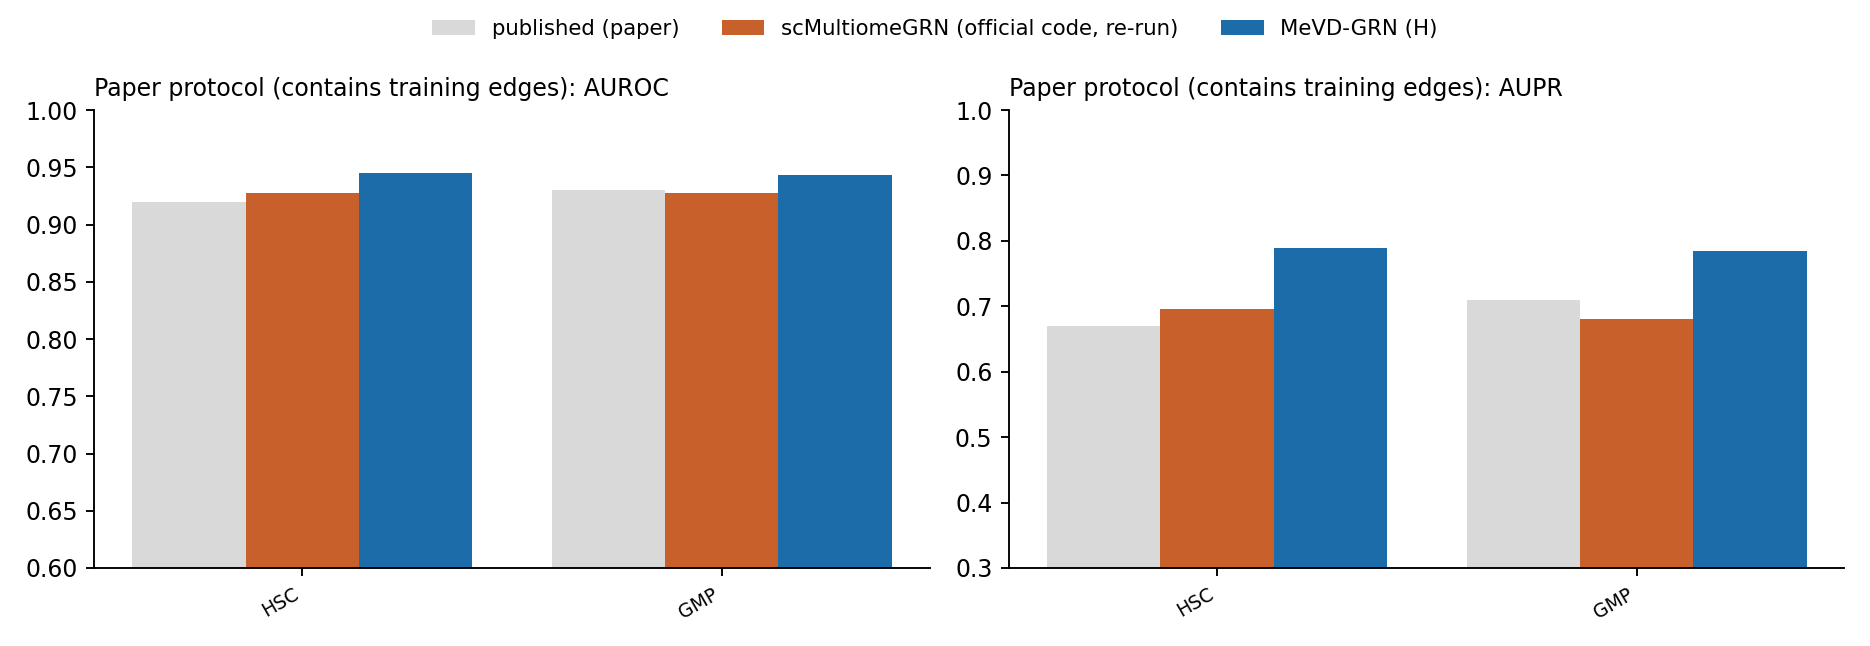
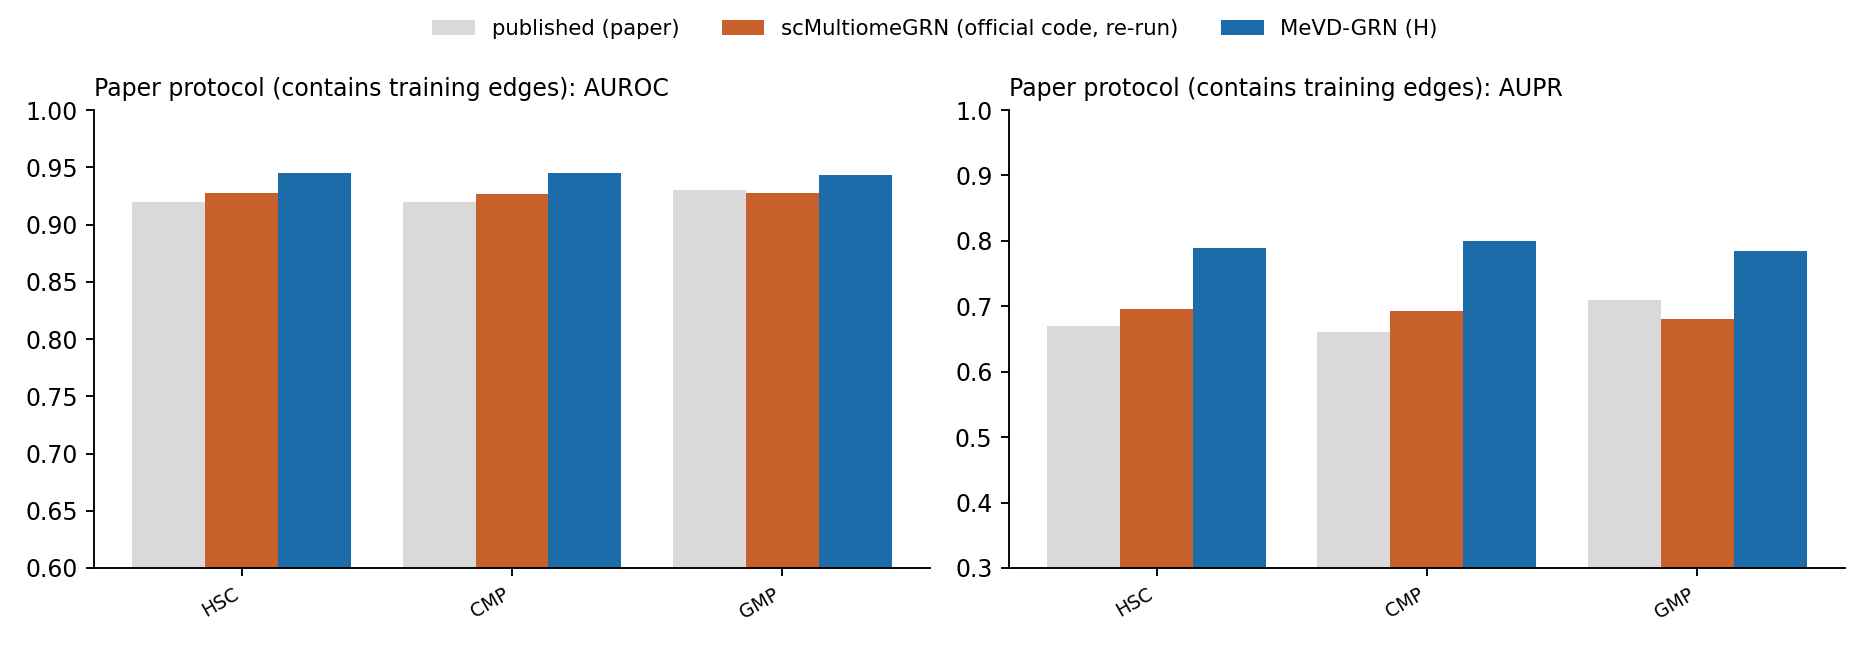
deck: hematopoiesis complete (HSC, CMP, GMP)

diff --git a/docs/presentation/presentation_11th_oct_17th_oct.md b/docs/presentation/presentation_11th_oct_17th_oct.md
@@ -9,7 +9,7 @@ Branch `scmgrn-tftf`. Experiment write-up with every deviation: `docs/experiment
 
 ---
 
-## 1. Summary (updated 16 Oct, 17:40; 8 of 9 lung cell types and 2 of 3 hematopoiesis cell types have both methods finished)
+## 1. Summary (updated 16 Oct, 18:20; 8 of 9 lung cell types and all 3 hematopoiesis cell types have both methods finished)
 
 1. **We rebuilt scMultiomeGRN's benchmark and reproduced its published numbers.** The regenerated TF-TF answer keys are within
    5% of the paper's link counts on all 9 lung cell types, our fold files are byte-identical to what their split code writes,
@@ -17,13 +17,13 @@ Branch `scmgrn-tftf`. Experiment write-up with every deviation: `docs/experiment
    Myeloid 0.943 / 0.849, HSC 0.927 / 0.696, on the paper's metric).
 2. **We changed MeVD-GRN to predict undirected TF-TF links**, the task scMultiomeGRN solves (it used to predict directed TF-to-gene edges),
    and gave it scMultiomeGRN's own inputs.
-3. **On the held-out test fold, MeVD-GRN beats scMultiomeGRN on 7 of the 8 lung cell types finished, and on both hematopoiesis cell types finished.**
-   Lung, pooled: **+0.017 AUPR, +0.013 AUROC**; individually significant on 5 of 8 cell types. Hematopoiesis: +0.020 AUPR on HSC (p = 0.002), +0.008 on GMP (p = 0.049).
+3. **On the held-out test fold, MeVD-GRN beats scMultiomeGRN on 7 of the 8 lung cell types finished, and on all three hematopoiesis cell types.**
+   Lung, pooled: **+0.017 AUPR, +0.013 AUROC**; individually significant on 5 of 8 cell types. Hematopoiesis, pooled over HSC, CMP and GMP: +0.017 AUPR (+0.020 HSC, +0.023 CMP, +0.008 GMP) and +0.009 AUROC.
    The gains are small (1 to 3 points) next to the fold-to-fold spread (2 to 5 points). Myeloid is the one lung cell type where scMultiomeGRN is ahead (not significant).
 4. **The ablations say the gain does not come from the scMultiomeGRN-specific inputs or from the training graph.** A variant that never sees
    the training links scores the same as the full model. This fits the main caveat of the benchmark: the answer key is generated from the
    same ATAC data the models read (section 10).
-5. **Status:** see section 12. Remaining: Stromal (lung), CMP (hematopoiesis).
+5. **Status:** see section 12. Remaining: the scMultiomeGRN official-code run on Stromal (lung), expected around 20:30; its MeVD-GRN runs are finished.
 
 ---
 
@@ -178,6 +178,7 @@ the links the model trained on). We report both and label the second.
 | Ciliated epithelial | 0.93 / 0.75 | 0.918 / 0.730 |
 | Vascular endothelial | 0.90 / 0.67 | 0.899 / 0.668 |
 | HSC (hematopoiesis) | 0.92 / 0.67 | 0.927 / 0.696 |
+| CMP (hematopoiesis) | 0.92 / 0.66 | 0.927 / 0.692 |
 | GMP (hematopoiesis) | 0.93 / 0.71 | 0.928 / 0.681 |
 
 The re-runs match the paper to within about 0.01 AUROC and 0.03 AUPR (closest on Bronchiolar, Myeloid, Lymphoid, Neuroendocrine, HSC). The benchmark therefore reproduces the paper; comparisons made on it are meaningful.
@@ -260,24 +261,33 @@ it should not be read as better generalisation.
 
 ---
 
-## 9b. Hematopoiesis (Buenrostro 2018): HSC and GMP finished, CMP running
+## 9b. Hematopoiesis (Buenrostro 2018): HSC, CMP, GMP (all finished)
 
 Held-out test fold, AUROC / AUPR:
 
 | Cell type | **MeVD-GRN H** | A1 | A2 | A3 | scMultiomeGRN (official code) |
 |---|---|---|---|---|---|
 | HSC | **0.934 / 0.940** | 0.934 / 0.941 | 0.931 / 0.937 | 0.932 / 0.940 | 0.922 / 0.921 |
+| CMP | **0.925 / 0.932** | 0.925 / 0.932 | 0.924 / 0.931 | 0.924 / 0.932 | 0.914 / 0.909 |
 | GMP | **0.925 / 0.934** | 0.925 / 0.935 | 0.922 / 0.934 | 0.924 / 0.935 | 0.921 / 0.926 |
-| CMP | running | | | | |
+| average | **0.928 / 0.936** | 0.928 / 0.936 | 0.926 / 0.934 | 0.927 / 0.936 | 0.919 / 0.919 |
 
-Fold-paired, H minus official: HSC +0.020 AUPR (p = 0.002), +0.012 AUROC (p = 0.002); GMP +0.008 AUPR (p = 0.049), +0.004 AUROC (p = 0.23). Pooled (20 pairs): +0.014 AUPR (p = 5e-5).
+Fold-paired, H minus official: HSC +0.020 AUPR (p = 0.002), +0.012 AUROC (p = 0.002); CMP +0.023 AUPR (p = 0.002), +0.012 AUROC (p = 0.002);
+GMP +0.008 AUPR (p = 0.049), +0.004 AUROC (p = 0.23). Pooled (30 pairs): +0.017 AUPR (p = 6e-8), +0.009 AUROC (p = 8e-7); ahead in 90% of the fold pairs.
 
-Paper protocol (full matrix, contains training links), AUROC / AUPR: HSC: MeVD-GRN 0.945 / 0.790, official re-run 0.927 / 0.696 (paper 0.92 / 0.67);
-GMP: MeVD-GRN 0.943 / 0.784, official re-run 0.928 / 0.681 (paper 0.93 / 0.71).
+Paper protocol (full matrix, contains training links), AUROC / AUPR:
+
+| Cell type | MeVD-GRN H | scMultiomeGRN (official code re-run) | Paper (published) |
+|---|---|---|---|
+| HSC | 0.945 / 0.790 | 0.927 / 0.696 | 0.92 / 0.67 |
+| CMP | 0.945 / 0.800 | 0.927 / 0.692 | 0.92 / 0.66 |
+| GMP | 0.943 / 0.784 | 0.928 / 0.681 | 0.93 / 0.71 |
 
 ![hematopoiesis test fold](figs_scmgrn_hema/fig_test.png)
 
 The same pattern as lung: a small held-out-fold gain, and the four MeVD-GRN variants indistinguishable from each other.
+Caveats specific to hematopoiesis: scATAC and scRNA come from separate experiments (as in the paper), the scATAC counts come from the GEO matrix (GSE96769)
+rather than from per-cell BAM files, and the CMP scRNA cells (cmp0, cmp1, cmp2) are our reading of the paper.
 
 ---
 
@@ -297,15 +307,14 @@ The same pattern as lung: a small held-out-fold gain, and the four MeVD-GRN vari
 
 ---
 
-## 12. Progress of the runs (updated 16 Oct, 17:40)
+## 12. Progress of the runs (updated 16 Oct, 18:20)
 
 | Dataset / cell type | Status | MeVD-GRN (4 variants × 5 seeds × 10 folds) | Official code |
 |---|---|---|---|
 | Lung: Myeloid, Lymphoid, Megakaryocytes, Neuroendocrine, Lymphatic | **finished** | done | 6 seeds done |
 | Lung: Bronchiolar, Ciliated, Vascular endothelial | **finished** | done | 2 seeds done |
-| Lung: Stromal (43k cells) | queued last; may hit the memory limit of the official code | – | – |
-| Hematopoiesis: HSC, GMP | **finished** | done | 2 seeds done |
-| Hematopoiesis: CMP | running | done | in progress |
+| Lung: Stromal (43k cells) | official code running (17 min per fold, 2 seeds in parallel); MeVD-GRN done | done | fold 2 of 10 at 18:05 |
+| Hematopoiesis: HSC, CMP, GMP | **finished** | done | 2 seeds done |
 
 *(Further updates are appended below as results arrive.)*
 
